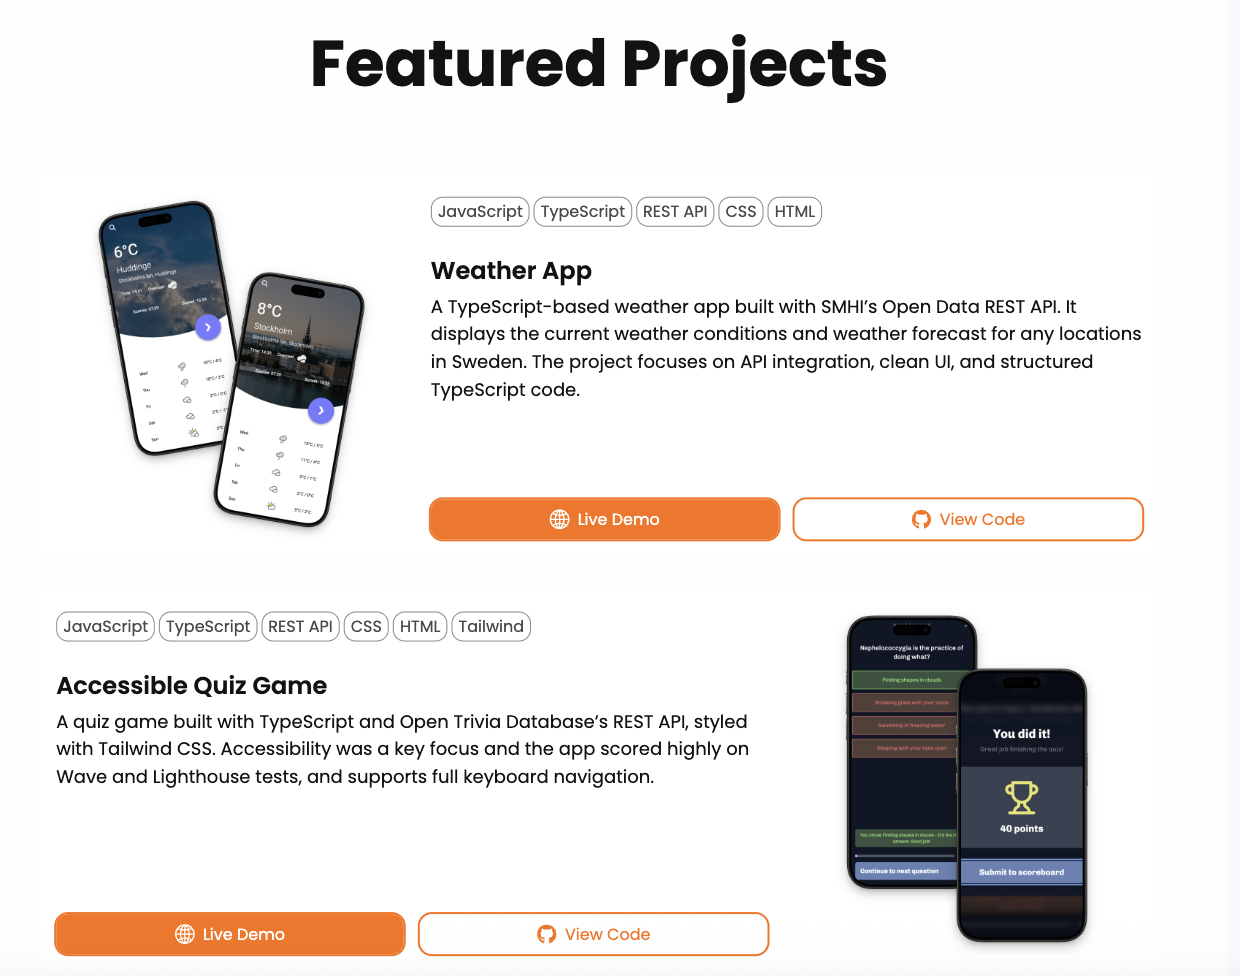
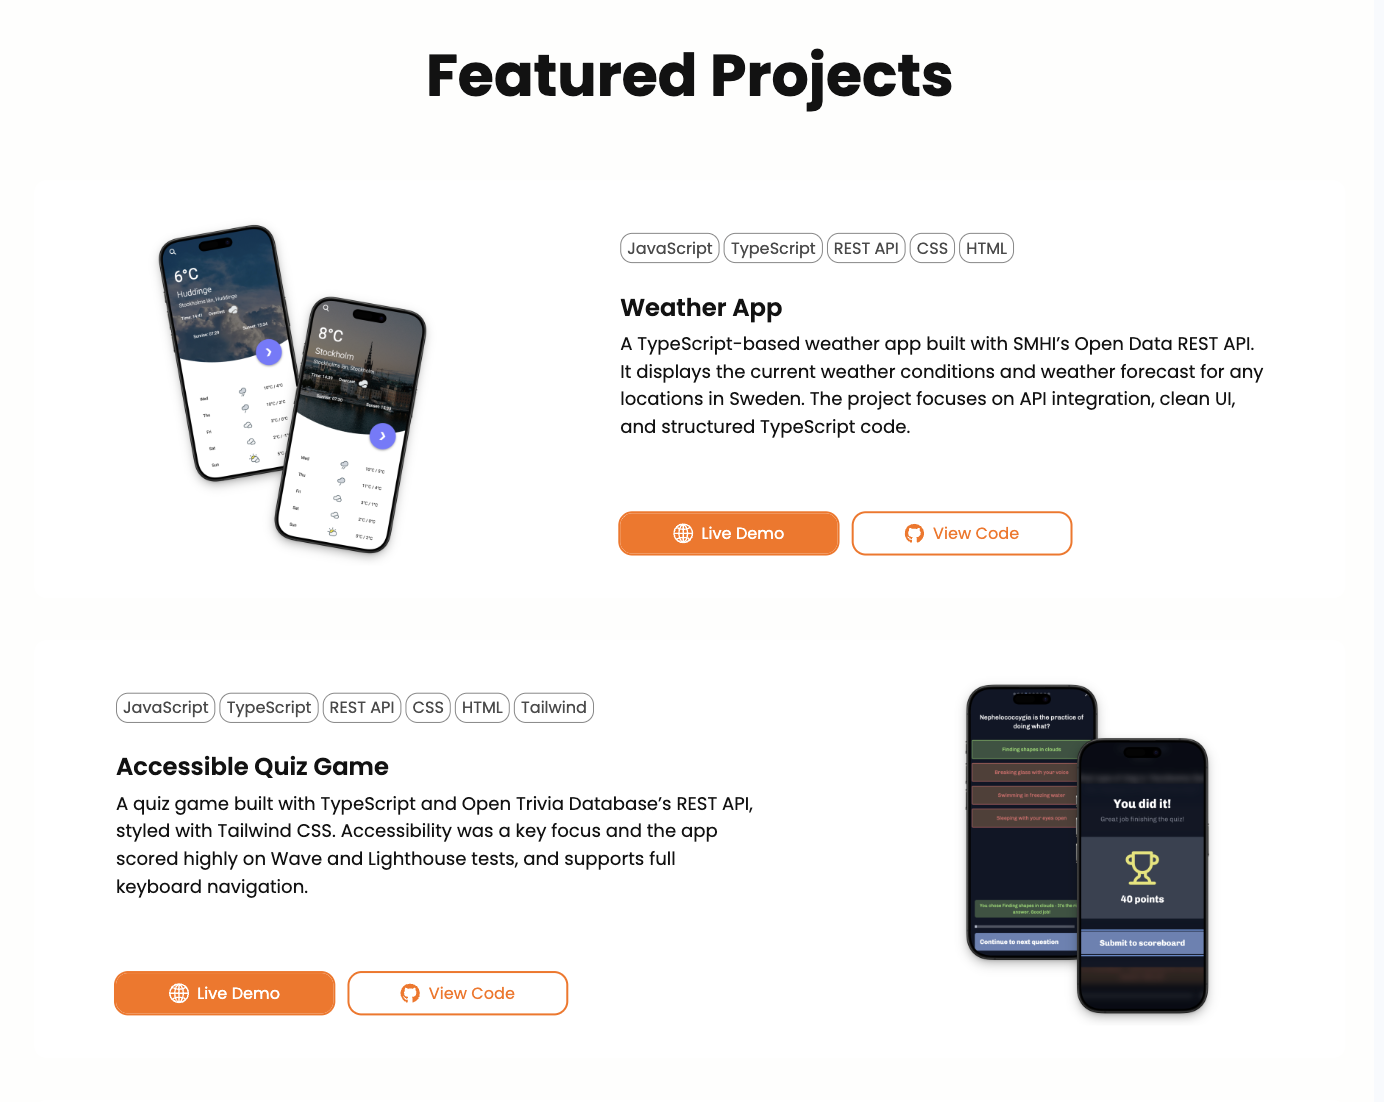
change typography sizes

diff --git a/src/components/sections/IntroSection.jsx b/src/components/sections/IntroSection.jsx
@@ -29,15 +29,15 @@ export const IntroSection = () => {
   
   const smallScreenIntro = (
     <StyledIntroSection>
-      <Typography size="s" weight="medium">I am Gabriella Berkowicz</Typography>
+      <Typography size="s" weight="regular">I am Gabriella Berkowicz</Typography>
       <br></br>
-      <Img src="/profile.png" alt="profile picture"/>
+      <Img src="/profile-filled.png" alt="profile picture"/>
       <br></br>
-      <Typography as="h1">JavaScript Developer</Typography>
+      <Typography as="h1">Frontend Developer</Typography>
       <Typography as="h2"size="m" weight="regular">With a Background in Web Analytics</Typography>
       <br></br>
-      <Typography>I'm a frontend developer passionate about building user-focused and data-informed web experiences with JavaScript. My goal is to continue to grow as a developer while bringing curiosity, creativity, and an analytical mindset to every project I take on.
-      My background as a Technical Web Analyst has given me a strong foundation in understanding user behavior, collaborating across product teams, and making data-driven decisions in product development. I consider myself an adaptable, fast learner who enjoys problem solving, collaboration, and values continuous learning.
+      <Typography>I'm passionate about building user-focused and data-informed web experiences with JavaScript and React. My goal is to continue to grow as a developer while bringing curiosity, creativity, and an analytical mindset to every project I take on.
+      My background as a Technical Web Analyst has given me a strong foundation in understanding user behavior, collaborating across teams, and making data-driven decisions in product development. I consider myself an adaptable, fast learner who enjoys problem solving, collaboration, and values continuous learning.
       </Typography>
       <IconsContainer />
 
@@ -47,17 +47,17 @@ export const IntroSection = () => {
   const bigScreenIntro = (
     <StyledIntroSection>
     <div>
-      <Typography size="s" weight="medium">I am Gabriella Berkowicz</Typography>
+      <Typography size="s" weight="regular">I am Gabriella Berkowicz</Typography>
       <br></br>
-      <Typography as="h1">JavaScript Developer</Typography>
+      <Typography as="h1">Frontend Developer</Typography>
       <Typography as="h2"size="m" weight="regular">With a Background in Web Analytics</Typography>
       <br></br>
-      <Typography>I'm a frontend developer passionate about building user-focused and data-informed web experiences with JavaScript. My goal is to continue to grow as a developer while bringing curiosity, creativity, and an analytical mindset to every project I take on.
-      My background as a Technical Web Analyst has given me a strong foundation in understanding user behavior, collaborating across product teams, and making data-driven decisions in product development. I consider myself an adaptable, fast learner who enjoys problem solving, collaboration, and values continuous learning.
+      <Typography>I'm passionate about building user-focused and data-informed web experiences with JavaScript and React. My goal is to continue to grow as a developer while bringing curiosity, creativity, and an analytical mindset to every project I take on.
+      My background as a Technical Web Analyst has given me a strong foundation in understanding user behavior, collaborating across teams, and making data-driven decisions in product development. I consider myself an adaptable, fast learner who enjoys problem solving, collaboration, and values continuous learning.
       </Typography>
       <IconsContainer />
     </div>
-    <Img src="/profile.png" alt="profile picture" height="350px"/>
+    <Img src="/profile-filled.png" alt="profile picture" height="350px"/>
   </StyledIntroSection>
   )
   

diff --git a/src/components/typography/Typography.styled.js b/src/components/typography/Typography.styled.js
@@ -22,12 +22,12 @@ const weightMapping = {
 
 const typographyConfig = {
   h1: {
-    mobile: { size: "54px", weight: 700 },
-    desktop: { size: "64px", weight: 700 }
+    mobile: { size: "48px", weight: 700 },
+    desktop: { size: "52px", weight: 700 }
   },
   h2: {
-    mobile: { size: "52px", weight: 700 },
-    desktop: { size: "64px", weight: 700 }
+    mobile: { size: "48px", weight: 700 },
+    desktop: { size: "58px", weight: 700 }
   },
   h3: {
     mobile: { size: "24px", weight: 600 },

diff --git a/src/components/sections/ContactSection.jsx b/src/components/sections/ContactSection.jsx
@@ -8,7 +8,7 @@ import { StyledContactSection, StyledContent } from './Section.styled';
 export const ContactSection = () => {
   return (
       <StyledContactSection>
-          <Img src="/profile-filled.png" alt="profile picture" height="300px"/>
+          <Img src="/profile.png" alt="profile picture" height="300px"/>
           <StyledContent>
             <Typography as="h2">Let's Talk!</Typography>
             <Typography as="h3">Gabriella Berkowicz</Typography>
